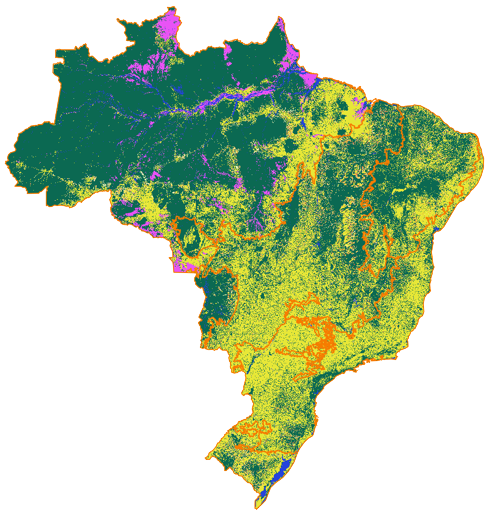
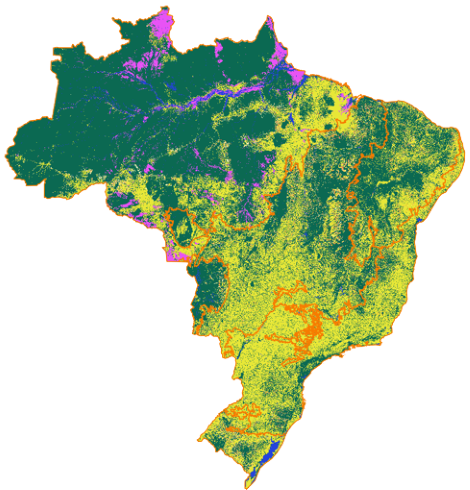
c

diff --git a/paginas/desmatamento.html b/paginas/desmatamento.html
@@ -69,7 +69,7 @@ direto, maquinário, mas também por outros meios, como a queima. Essas
 recursos naturais e uso da terra.</P>
 
 <div class="Mapa-desmatamento">
-    <img src="/assets/img/desmatamento/Mapa desmatamento.png" alt="">
+    <img src="/assets/img/deg" alt="">
 
 </main>
 
